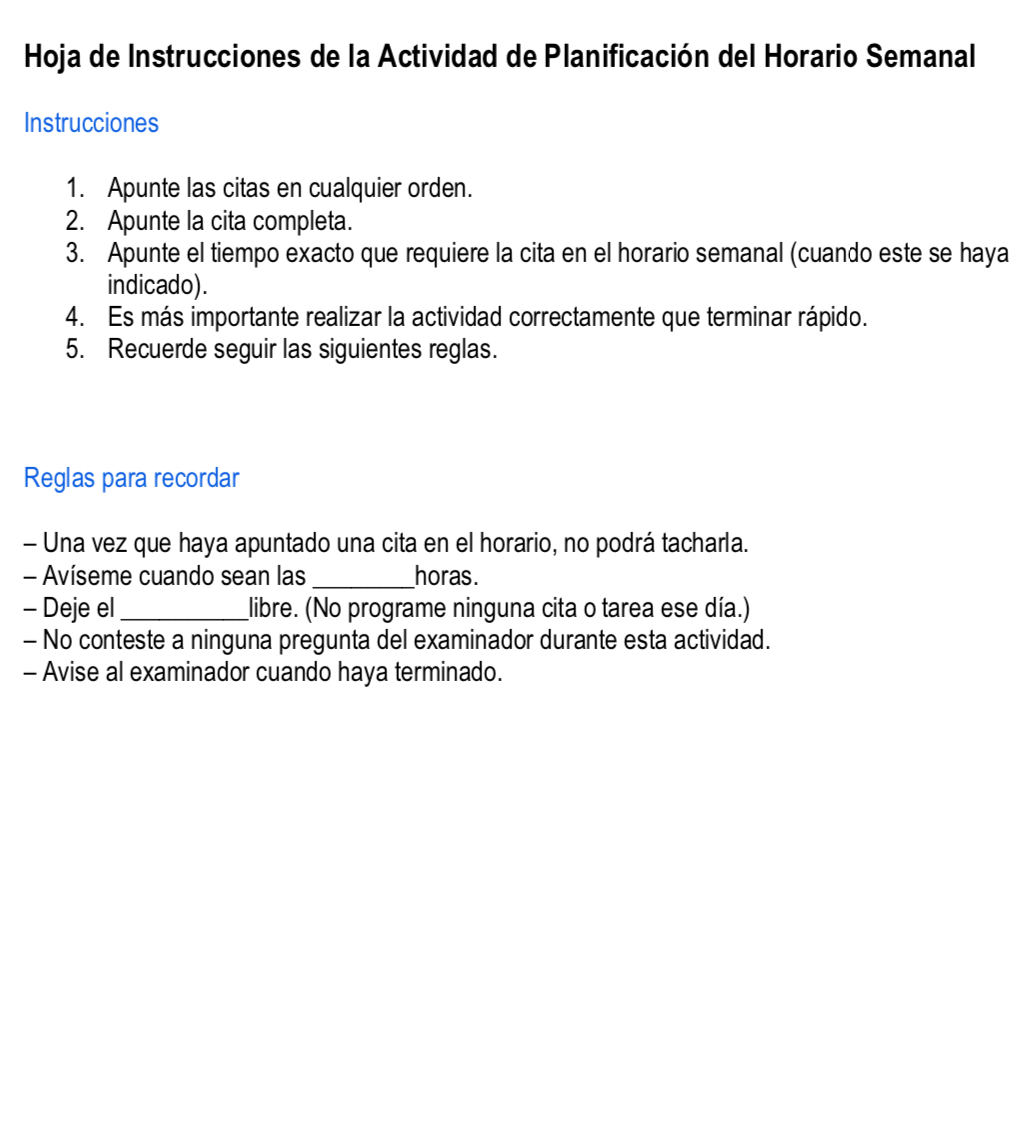
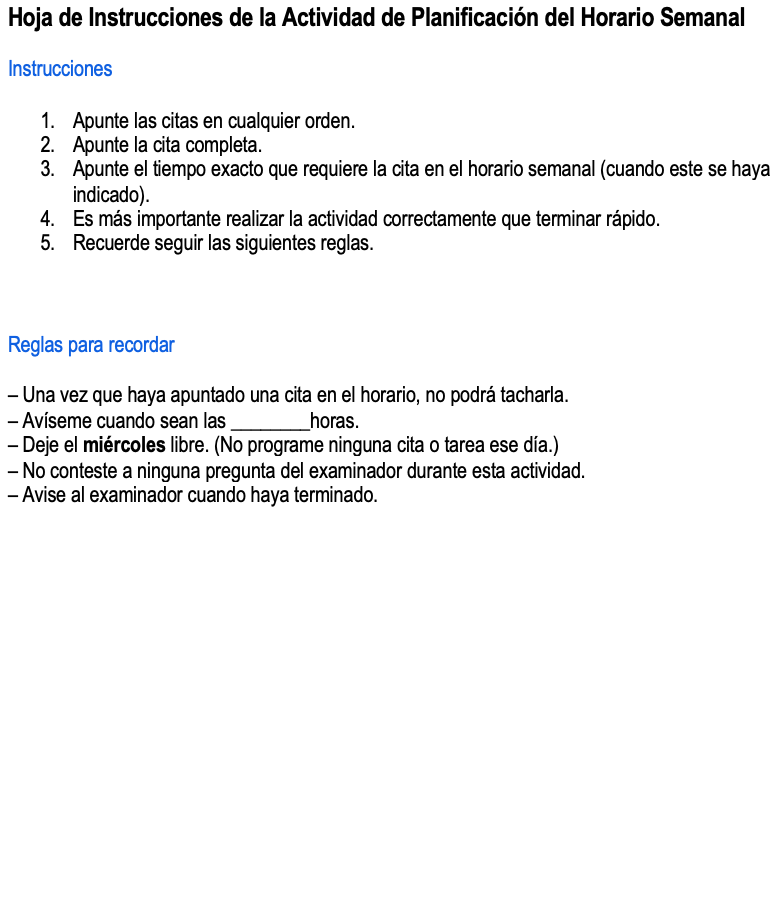
instrucciones y reglas

Changed region(s): [[0.0, 0.0, 1.0, 0.3407], [0.0, 0.3717, 0.7712, 0.6195]]

diff --git a/index.html b/index.html
@@ -147,9 +147,9 @@ background-size: 45%
 --
 
 ###_Solucionar situaciones conflictivas_  
-.pull-left[1. Espacios para citas de **15 min.** de 7:00-17:00 y **30 min.** de 18:00-20:00.  
+.pull-left[1. Sábado y domingo estan **invertidos.**   
 
-2. Sábado y domingo estan **invertidos.**  
+2. Espacios para citas de **15 min.** de 7:00-17:00 y **30 min.** de 18:00-20:00.  
 
 3. **Termina a las 20:00** a pesar de que una cita puede extenderse después de las 20:00. 
 
@@ -166,7 +166,7 @@ _Brindan la oportunidad de observar cómo las personas afrontan y se adaptan a p
 
 1. Una vez que haya apuntado una cita en el horario, no podrá tacharla.
 2. Avíseme cuando sean las ________horas.
-3. Deje el **miércoles**libre. (No programe ninguna cita o tarea ese día.) 
+3. Deje el **miércoles** libre. (No programe ninguna cita o tarea ese día.) 
 4. No conteste a ninguna pregunta del examinador durante esta actividad.
 5. Avise al examinador cuando haya terminado.  
 
@@ -293,7 +293,7 @@ background-size: 50%
 
 -  Ej. si comienza a las **10:20**, se le pedirá que informe cuando sean las **10:27**, y esto se escribiría en la hoja de instrucciones de la persona.
 
-- El día libre designado para esta versión es el **miércoles**. ]
+- El día libre es el **miércoles**. ]
 
 ---
 background-image: url(https://img.pngio.com/cosmetic-instructions-more-package-read-symbols-icon-instructions-png-512_512.png)
